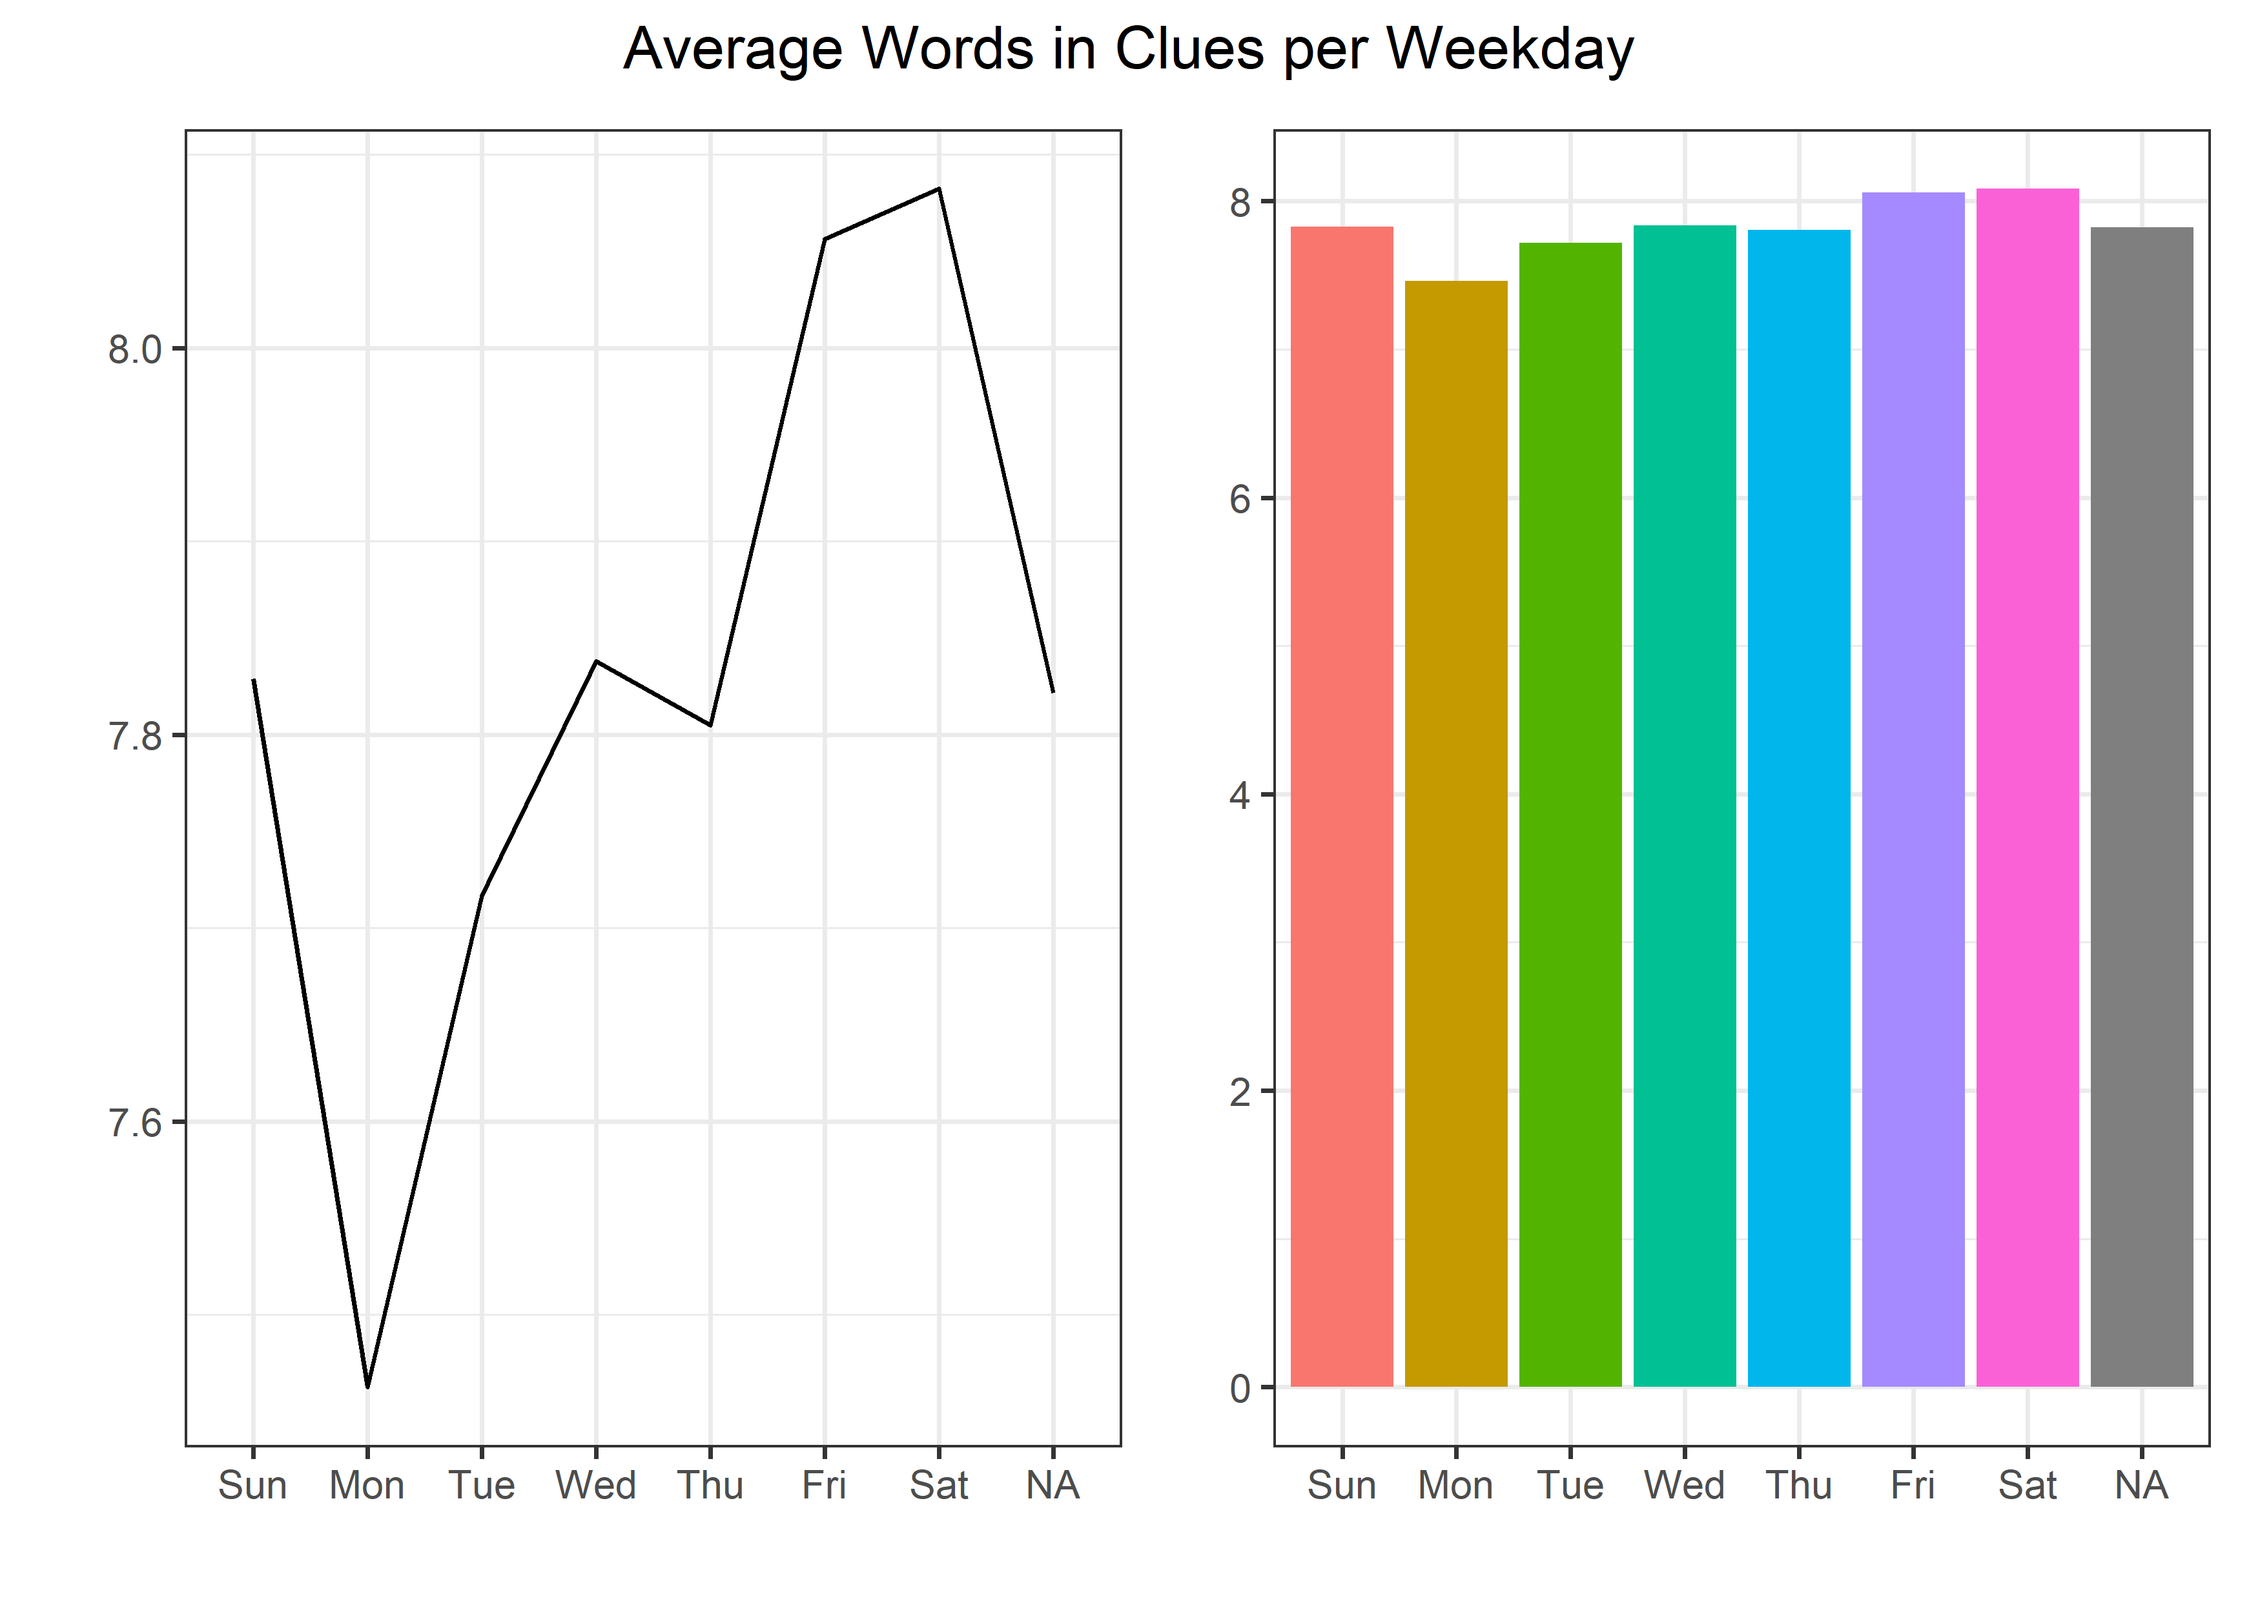
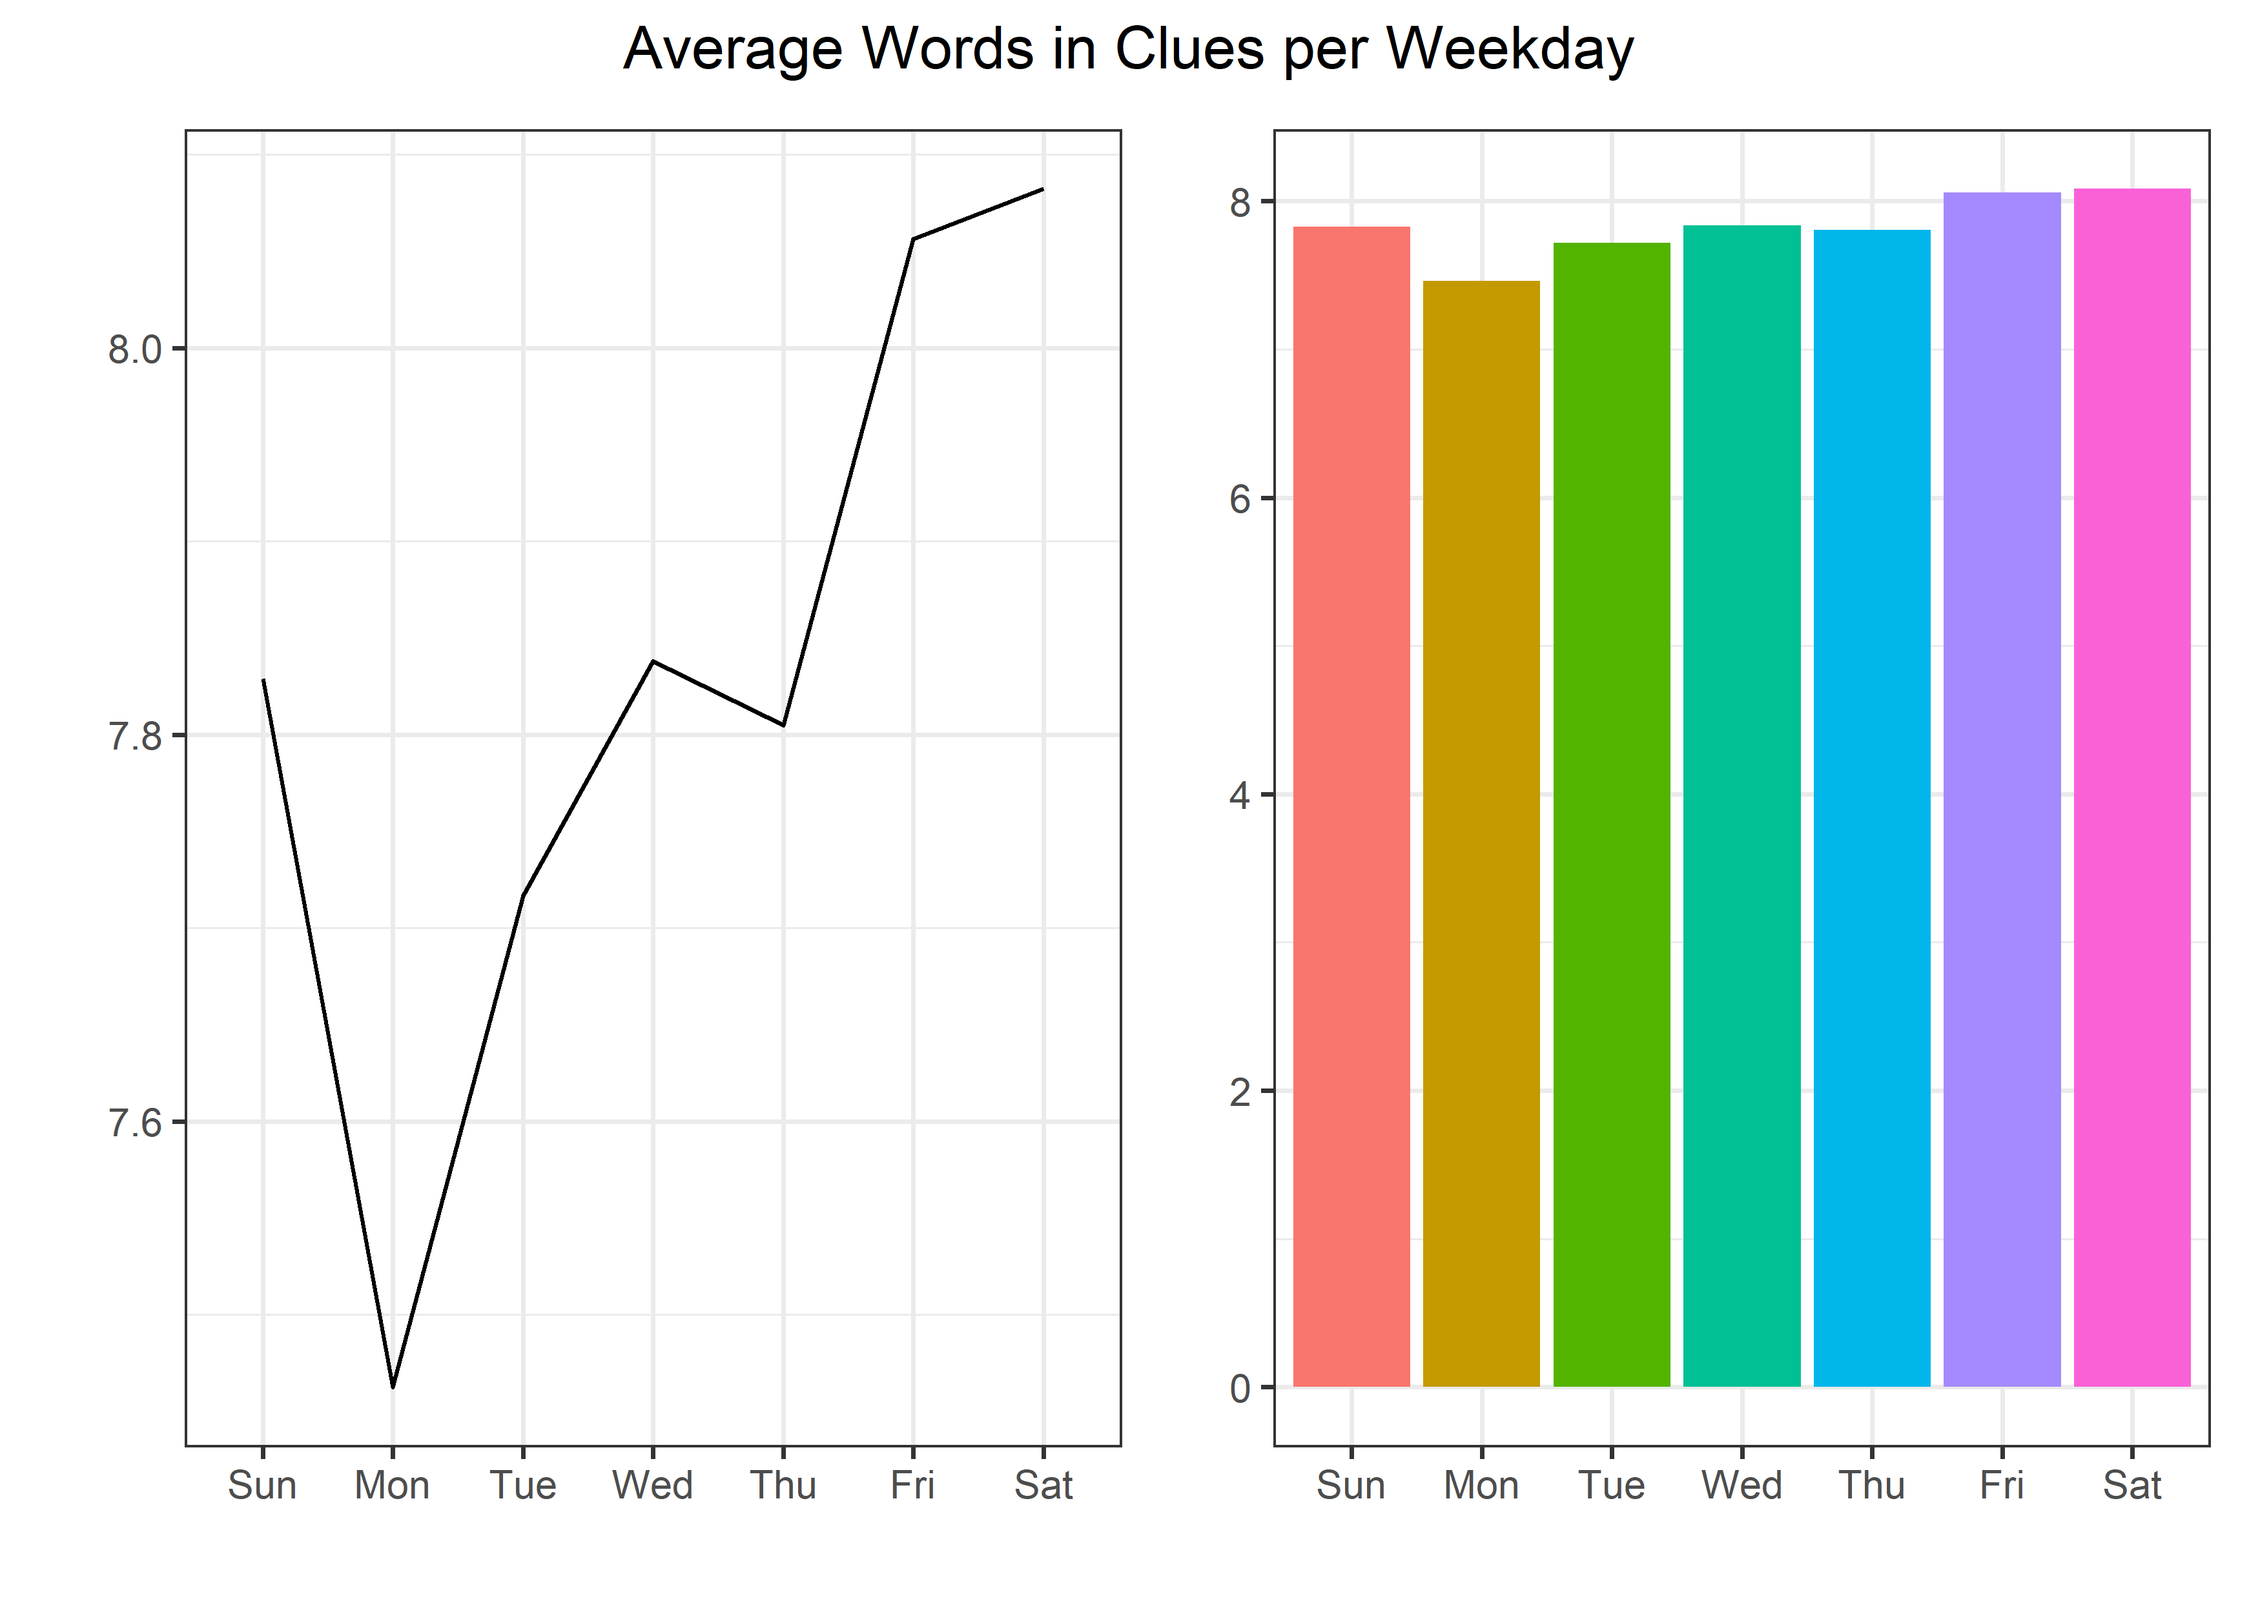
filtered out na's

diff --git a/04-19-22/Crossword-Puzzle.md b/04-19-22/Crossword-Puzzle.md
@@ -36,8 +36,6 @@ times <-
 ``` r
 puzzles <- big_dave %>% 
   bind_rows(times)
-
-rm(list = c("big_dave","times"))
 ```
 
 # EDA
@@ -137,6 +135,7 @@ puzzles %>%
 puzzles %>% 
   unnest_tokens(word, definition) %>% 
   group_by(month = month(puzzle_date, label = TRUE)) %>% 
+  filter(!is.na(month)) %>% 
   summarize(n = n()) %>% 
   arrange(-n) %>% 
   ggplot(aes(month, n, group = 1)) + geom_line() +
@@ -149,6 +148,7 @@ puzzles %>%
 puzzles %>% 
   unnest_tokens(word, clue) %>% 
   group_by(month = month(puzzle_date, label = TRUE)) %>% 
+  filter(!is.na(month)) %>% 
   summarize(n = n()) %>% 
   ggplot(aes(month, n, group = 1)) + geom_line() +
   labs(title = "Total number of words in clues per month")
@@ -161,11 +161,13 @@ puzzles %>%
 ``` r
 week_count <- puzzles %>%
   group_by(week = wday(puzzle_date, label = TRUE)) %>% 
+  filter(!is.na(week)) %>% 
   summarize(count = n())
 
 p <- puzzles %>% 
   unnest_tokens(word, clue) %>% 
   group_by(week = wday(puzzle_date, label = TRUE)) %>% 
+  filter(!is.na(week)) %>% 
   summarize(n = n()) %>% 
   inner_join(week_count) %>% 
   ggplot(aes(week, n/count, group = 1)) + labs(y = "", x = "")
